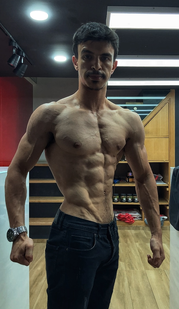
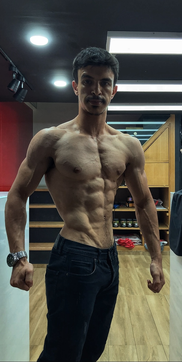
;;;;

diff --git a/gallery.html b/gallery.html
@@ -132,7 +132,12 @@
                 <div class="col-xl-6 col-lg-6 col-md-6 col-sm-6">
                     <div class="box snake mb-30">
                             <div class="gallery-img big-img">
-                                <img src="assets/img/gallery/t1.JPEG" alt="Transformation client">
+                                <img src="assets/img/gallery/t1.JPEG" alt="Transformation client">   <div class="overlay">
+                            <div class="overlay-content">
+                                <h3>Avant / Après</h3>
+                                <!-- <a href="gallery.html"><i class="ti-plus"></i></a> -->
+                            </div>
+                        </div>
                             </div>
                     </div>
                 </div>
@@ -140,6 +145,12 @@
                     <div class="box snake mb-30">
                        <div class="gallery-img big-img">
                                     <img src="assets/img/gallery/t2.JPEG" alt="Transformation client">
+                                       <div class="overlay">
+                            <div class="overlay-content">
+                                <h3>Coaching personnalisé</h3>
+                                <!-- <a href="gallery.html"><i class="ti-plus"></i></a> -->
+                            </div>
+                        </div>
                                 </div>
                     </div>
                 </div>
@@ -147,6 +158,12 @@
                     <div class="box snake mb-30">
                       <div class="gallery-img big-img">
                             <img src="assets/img/gallery/t3.jpeg" alt="Transformation client">
+                               <div class="overlay">
+                            <div class="overlay-content">
+                                <h3>Progression visible</h3>
+                                <!-- <a href="gallery.html"><i class="ti-plus"></i></a> -->
+                            </div>
+                        </div>
                         </div>
                     </div>
                 </div>
@@ -154,6 +171,12 @@
                     <div class="box snake mb-30">
                         <div class="gallery-img big-img">
                             <img src="assets/img/gallery/t4.JPEG" alt="Transformation client">
+                               <div class="overlay">
+                            <div class="overlay-content">
+                                <h3>Suivi transformation</h3>
+                                <!-- <a href="gallery.html"><i class="ti-plus"></i></a> -->
+                            </div>
+                        </div>
                         </div>
                     </div>
                 </div>
@@ -161,6 +184,12 @@
                     <div class="box snake mb-30">
                         <div class="gallery-img big-img">
                             <img src="assets/img/gallery/t5.JPEG" alt="Transformation client">
+                               <div class="overlay">
+                            <div class="overlay-content">
+                                <h3>Travail & discipline</h3>
+                                <!-- <a href="gallery.html"><i class="ti-plus"></i></a> -->
+                            </div>
+                        </div>
                         </div>
                     </div>
                 </div>
@@ -193,12 +222,16 @@
                                         <div class="main-menu main-menu2 text-center">
                                             <nav>
                                                 <ul>
-                                                    <li><a href="index.html">Home</a></li>
-                                                    <li><a href="about.html">About</a></li>
-                                                    <li><a href="programmes.html">Courses</a></li>
-                                                    
-                                                    <li><a href="gallery.html">Transformations</a></li>
-                                                    <li><a href="contact.html">Contact</a></li>
+                                                    <li><a href="index.html">Accueil</a></li>
+                                                        <li><a href="about.html">À propos</a></li>
+                                                        <li><a href="programmes.html">Programmes</a></li>
+                                                        
+
+                                                        <li>
+                                                            <a href="gallery.html">Transformations</a>
+                                                        </li>
+
+                                                        <li><a href="contact.html">Contact</a></li>
                                                 </ul>
                                             </nav>
                                         </div>   

diff --git a/assets/css/style.css b/assets/css/style.css
@@ -7914,18 +7914,11 @@ del {
 }
 
 
-/* HERO MOBILE FIX */
 @media (max-width: 768px) {
 
-    .slider-height {
-        height: auto !important;
-        min-height: 85vh;
-        padding: 120px 0;
-    }
-
     .single-slider {
-        background-size: cover !important;
-        background-position: center center !important;
+        height: 100vh !important;
+        min-height: 500px;
     }
 
 }
